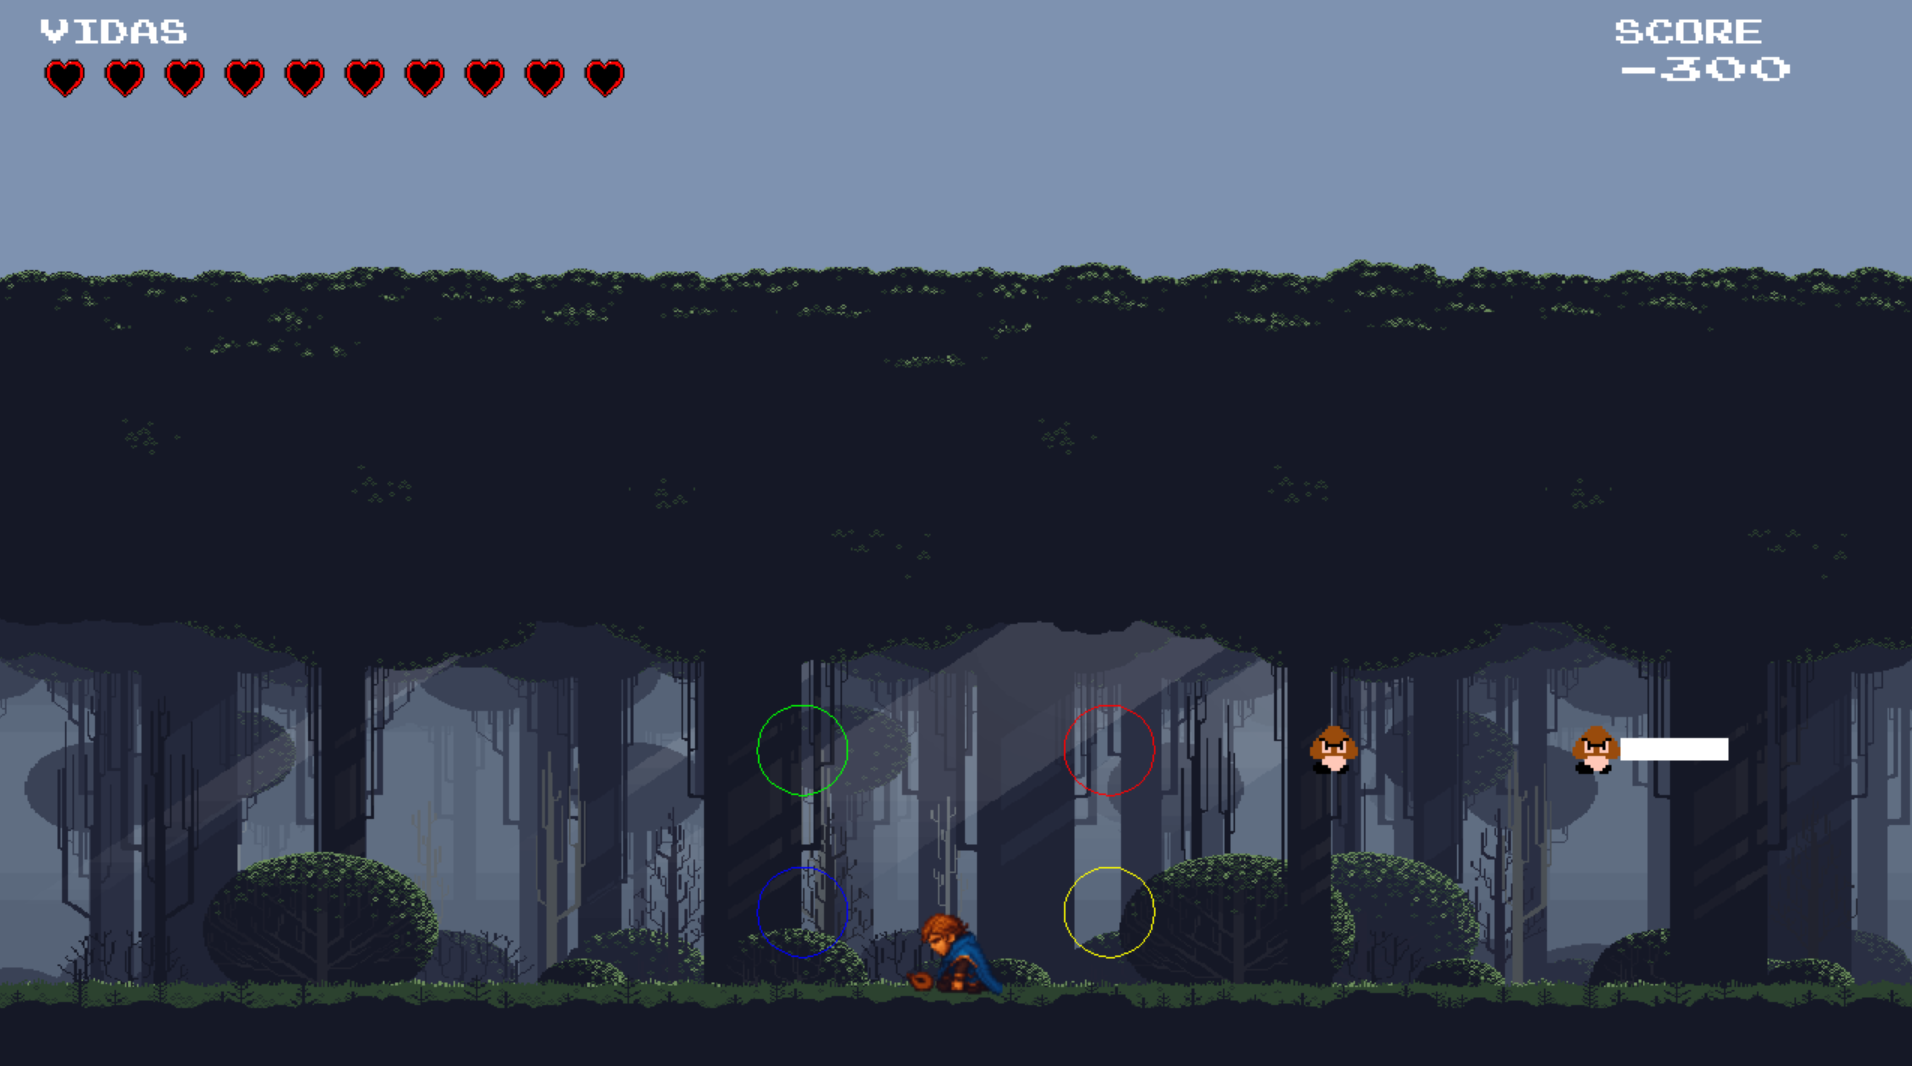
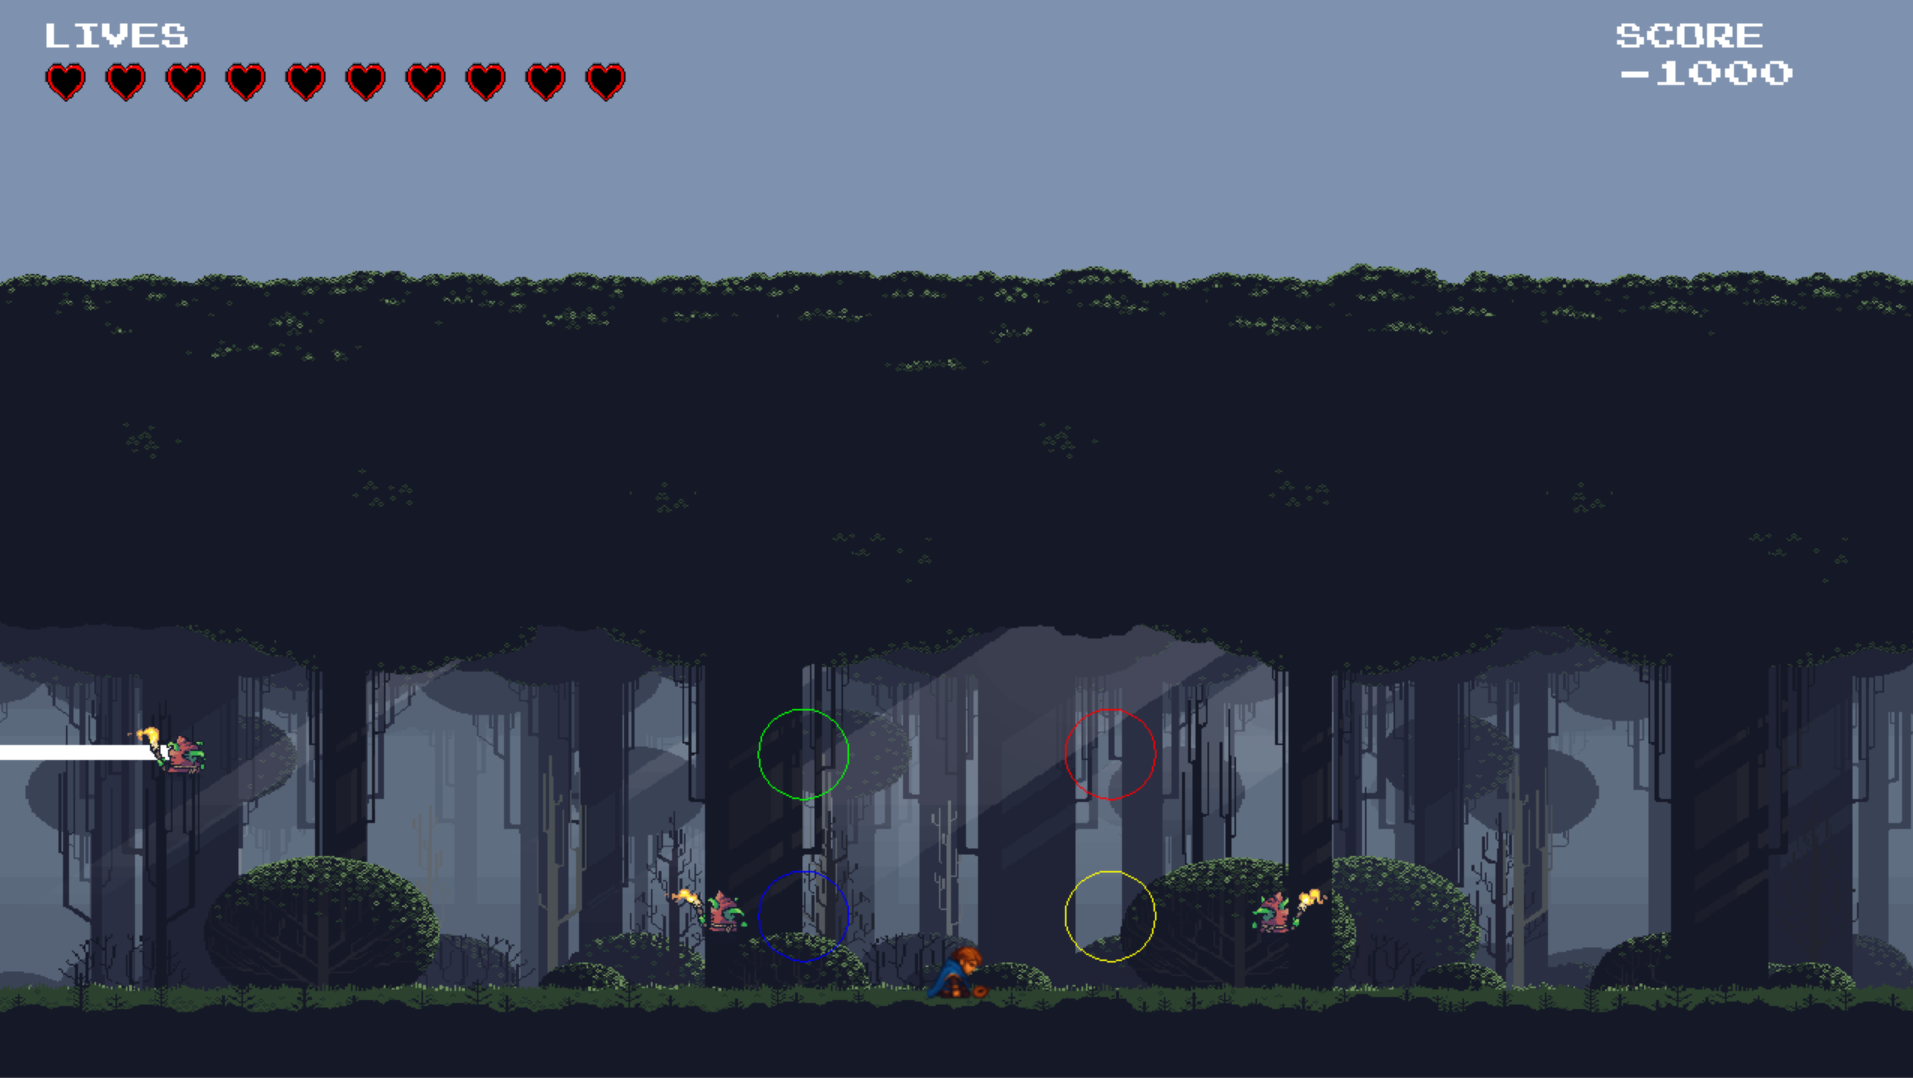
update read me with new features

diff --git a/README.md b/README.md
@@ -8,15 +8,21 @@
 
 <img src="Screenshots/screenshot_6.png" width="500px" />
 
+<img src="Screenshots/screenshot_9.png" width="500px" />
+
 <img src="Screenshots/screenshot_5.png" width="500px" />
 
 <img src="Screenshots/screenshot_3.png" width="500px" />
 
+<img src="Screenshots/screenshot_10.png" width="500px" />
+
+<img src="Screenshots/screenshot_11.png" width="500px" />
+
 <img src="Screenshots/screenshot_4.png" width="500px" />
 
-<img src="Screenshots/screenshot_2.png" width="500px" />
-
 <img src="Screenshots/screenshot_1.png" width="500px" />
+
+<img src="Screenshots/screenshot_2.png" width="500px" />
 
 
 ## Título
@@ -42,18 +48,21 @@ Essas são as principais funcionalidades apresentadas:
 * Inimigos devem se manter levemente dentro dos alvos para uma janela maior de acerto para o jogador.
 * Dificuldade: A demo está setada por padrão no modo Easy, sendo assim os inimigos devem aparecer apenas nos alvos verde, azul e vermelho.
 * Ao apertar as teclas, seus respectivos alvos devem piscar e uma tentativa de hit ocorrerá no alvo.
-    * A -> alvo verde (superior esquerdo).
-    * S -> alvo azul (inferior esquerdo).
-    * D -> alvo vermelho (superior direito).
-    * F -> alvo amarelo (inferior direito).
+    * W ou E -> alvo verde (superior esquerdo).
+    * S ou D -> alvo azul (inferior esquerdo).
+    * I ou O -> alvo vermelho (superior direito).
+    * J ou K -> alvo amarelo (inferior direito).
 * Acerto de um inimigo simples (key_in e key_out devem ser imediatos, o inimigo deve morrer com a animação de morte, a pontuação deve ser incrementada, se o jogador não estiver com vida máxima, uma vida deve ser recarregada).
 * Acerto de um inimigo composto (key_in, a tecla deve ser segurada, key_out, enquanto o comprimento do inimigo durar, sua barra deve ficar da cor do alvo, ao segurar a tecla até o fim da barra, os efeitos de acerto de inimigo devem acontecer).
 * Erro de um inimigo simples (se a janela de acerto do inimigo acabar e ele nao morrer, uma vida deve ser perdida, a pontuação deve ser decrementada).
 * Erro de um inimigo composto (se a tecla não for segurada por todo o comprimento do inimigo, uma vida deve ser perdida, a pontuação deve ser decrementada).
-* Erro de timing (ao acertar um alvo que não possui nenhum inimigo uma vida deve ser perdida, a pontuação deve ser decrementada).
+* Erro de timing (ao acertar um alvo que não possui nenhum inimigo) 
+    * Easy e Medium: apenas o feedbaack sonoro de erro deve ocorrer.
+    * Hard: o feedback de erro deve ocorrer e uma vida deve ser perdida, a pontuação deve ser decrementada.
 * HUD pontuação deve ser atualizada de acordo com os eventos do jogo.
 * HUD das vidas deve ser atualizada de acordo com os eventos do jogo.
 * Caso o jogador chegue a 0 vidas, ele deve perder o jogo e uma animação de morte deve ser exibida, bem como uma tela de game over.
+* O jogo deve possuir uma progressão de 3 níveis, chegando ao fim do ato com um TO BE CONTINUED...
 
 ## Créditos
 * Aline Cristina Pinto
